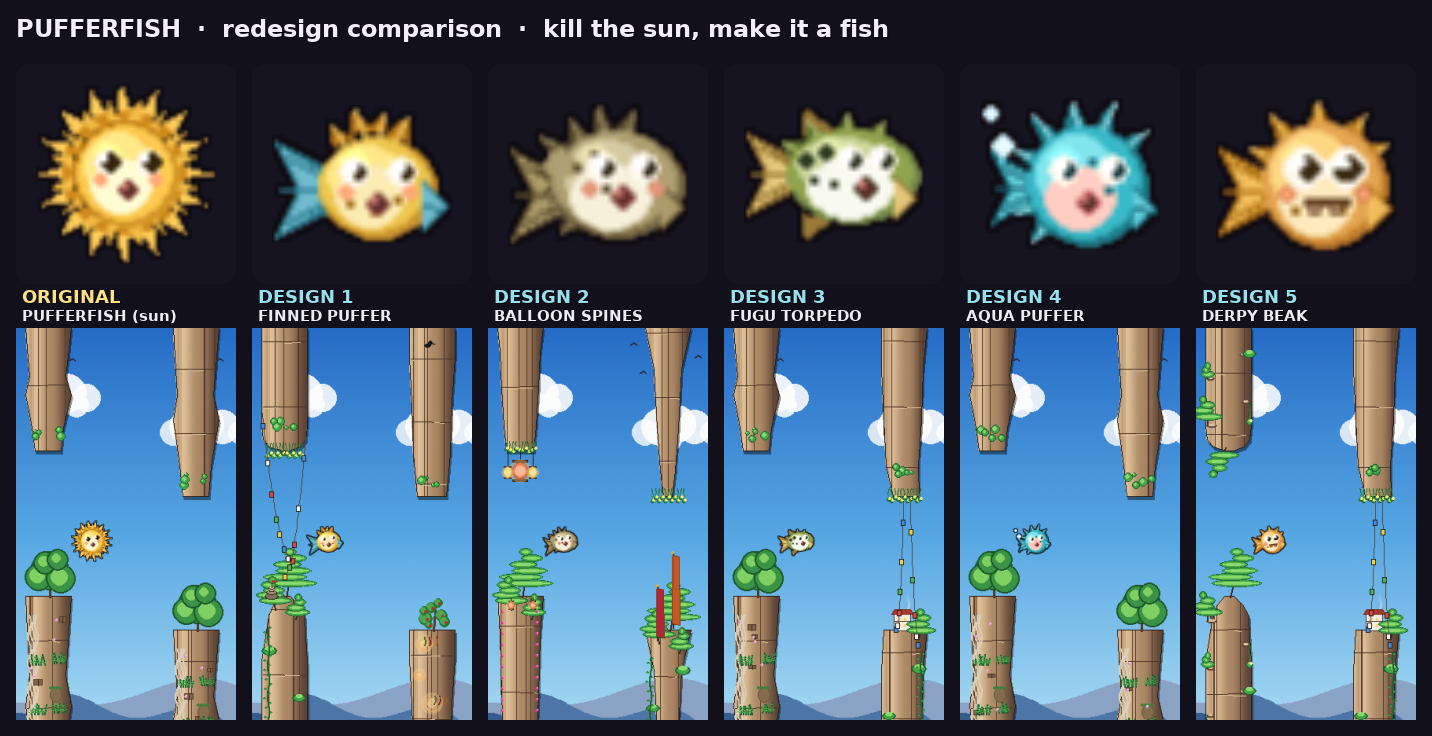
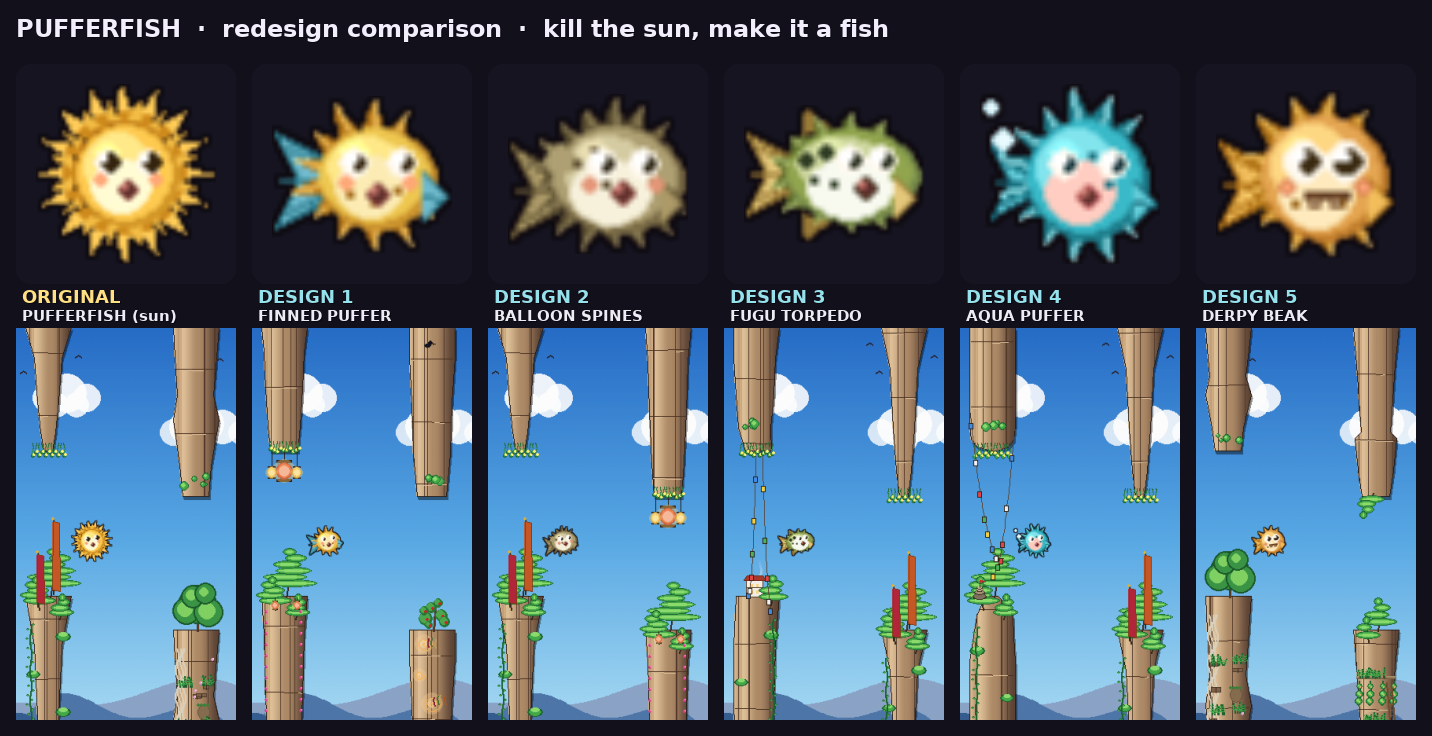
pufferfish R3: more spikes wrapping the body (face gap + tail keep it a fish)

diff --git a/tools/pufferfish_candidates/design_1.py b/tools/pufferfish_candidates/design_1.py
@@ -6,7 +6,8 @@ import pygame
 from game.parrot import _aaellipse
 from tools.pufferfish_candidates._shared import (
     _new, _make_prebuilt_skin, _inflate, _shade, _eye, _radial_body,
-    _tail_fin, _side_fin, _spots, _stub_spikes, _pouty_o, BCX, BCY,
+    _tail_fin, _side_fin, _spots, _stub_spikes, _spike_field, _pouty_o,
+    BCX, BCY,
 )
 
 CORE = (255, 226, 132)
@@ -21,9 +22,9 @@ FIN_L = (111, 183, 201)
 DARK  = (52, 36, 14)
 BLUSH = (255, 168, 120)
 
-# A SMALL cluster of blunt stubs on the upper-back shoulder only (not a crown
-# spanning the whole top) — uneven lengths so they read as bumps, not rays.
-_SPK = [(-2.2, 0.6), (-1.8, 1.0), (-1.45, 0.55), (-1.1, 0.85)]
+# Stubs wrapping most of the body (top + sides + lower-back) with a clear gap
+# over the front face — short + uneven so they read as bumpy puffer skin.
+_SPK = _spike_field(14, base=0.55, var=0.45, gap=(-0.7, 0.5), seed=1)
 
 
 def build_finned(wing_angle_deg):
@@ -39,9 +40,9 @@ def build_finned(wing_angle_deg):
     # must win the silhouette (drawn first so the body overlaps its root).
     _tail_fin(surf, cx - r + 2, cy + 1, 12, fin_d, fin_l)
 
-    # Small blunt stub bumps on the upper-back shoulder (anti-sun spike).
-    spk = 3 + int(inf * 2)
-    _stub_spikes(surf, cx, cy, r, r, spk, _shade(SPIKE_D, bf),
+    # Short blunt stubs wrapping the body (anti-sun: short + irregular + face gap).
+    spk = 5 + int(inf * 2)
+    _stub_spikes(surf, cx, cy, r, r - 2, spk, _shade(SPIKE_D, bf),
                  _shade(SPIKE_T, bf), _SPK)
 
     # Gold body as a gentle horizontal OVAL (rx>ry) — reads as an inflated fish

diff --git a/tools/pufferfish_candidates/_shared.py b/tools/pufferfish_candidates/_shared.py
@@ -117,6 +117,24 @@ def _spots(surf, cx, cy, rx, ry, col, seed_pts):
         pygame.draw.circle(surf, col, (cx + dx, cy + dy), rr)
 
 
+def _spike_field(n, *, base=0.7, var=0.5, gap=(-0.6, 0.6), seed=0):
+    """Generate `n` stub-spike placements wrapped around the body with a small
+    DETERMINISTIC length jitter (irregular bumpy skin, never even rays) and a
+    clear angular `gap` over the face/front so the studs never close into a full
+    radial halo. Angles in radians: 0 = front (+x), -pi/2 = top. Returns a list
+    of (angle, len_scale) for `_stub_spikes`. No RNG → the 4 cached frames are
+    stable. Pass gap=None to wrap the whole body."""
+    out = []
+    glo, ghi = gap if gap else (1.0, -1.0)
+    for i in range(n):
+        a = -math.pi + (2 * math.pi) * (i + 0.5) / n
+        if gap and glo <= a <= ghi:
+            continue
+        ls = base + var * (((i * 5 + seed * 3) % 7) / 6.0)
+        out.append((a, ls))
+    return out
+
+
 def _stub_spikes(surf, cx, cy, rx, ry, length, col_base, col_tip, placements):
     """Short, BLUNT cone spines at fixed (angle, scale) placements — scattered,
     not a clean radial fan. This is the anti-sun spike: stubby + staggered so it

diff --git a/tools/pufferfish_candidates/design_2.py b/tools/pufferfish_candidates/design_2.py
@@ -9,7 +9,8 @@ import pygame
 from game.parrot import _aaellipse
 from tools.pufferfish_candidates._shared import (
     _new, _make_prebuilt_skin, _inflate, _shade, _eye, _radial_body,
-    _tail_fin, _side_fin, _spots, _stub_spikes, _pouty_o, BCX, BCY,
+    _tail_fin, _side_fin, _spots, _stub_spikes, _spike_field, _pouty_o,
+    BCX, BCY,
 )
 
 # De-golded tan puffer skin so colour stops reading "sun".
@@ -25,10 +26,10 @@ FIN_L = (168, 150, 102)
 DARK  = (46, 38, 22)
 BLUSH = (228, 150, 120)
 
-# Studs on the TOP + BACK arc ONLY (belly & front-face kept bald) — an
-# asymmetric distribution can never read as a radial sun.
-_SPK = [(-2.95, 0.7), (-2.55, 1.0), (-2.15, 0.8), (-1.75, 1.0),
-        (-1.35, 0.85), (2.85, 0.75), (2.55, 0.9), (2.25, 0.7)]
+# The SPIKY puffer: studs wrap nearly the whole body (top + sides + belly +
+# back), with only the front face kept clear. Short + irregular + a dominant
+# tail keep it bumpy-blowfish, not a radial sun.
+_SPK = _spike_field(18, base=0.6, var=0.5, gap=(-0.7, 0.4), seed=2)
 
 
 def build_balloon(wing_angle_deg):

diff --git a/tools/pufferfish_candidates/design_4.py b/tools/pufferfish_candidates/design_4.py
@@ -6,7 +6,8 @@ import pygame
 from game.parrot import _aaellipse
 from tools.pufferfish_candidates._shared import (
     _new, _make_prebuilt_skin, _inflate, _flap, _shade, _eye, _radial_body,
-    _tail_fin, _side_fin, _spots, _stub_spikes, _pouty_o, BCX, BCY,
+    _tail_fin, _side_fin, _spots, _stub_spikes, _spike_field, _pouty_o,
+    BCX, BCY,
 )
 
 CORE = (127, 224, 232)          # light aqua core
@@ -21,10 +22,9 @@ FIN_L = (96, 200, 212)
 DARK  = (24, 54, 60)
 BUBBLE = (234, 251, 255)
 
-# Soft rounded short spines — upper body PLUS a couple lower on the back flank
-# so the bumps wrap the ball (the "spines all over a round body" puffer cue).
-_SPK = [(-2.7, 0.7), (-2.2, 0.9), (-1.7, 0.75), (-1.2, 0.95), (-0.7, 0.8),
-        (2.7, 0.6), (2.3, 0.7)]
+# Soft rounded short spines wrapping the whole ball (top + sides + belly + back),
+# face kept clear — the "spines all over a round body" puffer cue, in cute aqua.
+_SPK = _spike_field(15, base=0.6, var=0.45, gap=(-0.7, 0.5), seed=4)
 
 
 def build_aqua(wing_angle_deg):

diff --git a/tools/pufferfish_candidates/design_3.py b/tools/pufferfish_candidates/design_3.py
@@ -8,7 +8,8 @@ import pygame
 from game.parrot import _aaellipse
 from tools.pufferfish_candidates._shared import (
     _new, _make_prebuilt_skin, _inflate, _shade, _eye, _radial_body,
-    _tail_fin, _side_fin, _spots, _stub_spikes, _pouty_o, BCX, BCY,
+    _tail_fin, _side_fin, _spots, _stub_spikes, _spike_field, _pouty_o,
+    BCX, BCY,
 )
 
 CORE = (201, 210, 154)          # pale olive flank
@@ -22,8 +23,9 @@ FIN_D = (150, 120, 54)          # warm olive-tan fins
 FIN_L = (224, 196, 120)
 DARK  = (40, 46, 28)            # dark olive iris (still lets the white win)
 
-# Sparse, tiny spines on the upper back only.
-_SPK = [(-2.6, 0.5), (-2.1, 0.6), (-1.6, 0.55), (-1.1, 0.5)]
+# Fine prickles wrapping the back + flanks (fugu has small dense spines), face
+# kept clear. Kept SHORT so the realistic read stays calm, not a sunburst.
+_SPK = _spike_field(14, base=0.4, var=0.35, gap=(-0.8, 0.5), seed=3)
 
 
 def build_fugu(wing_angle_deg):

diff --git a/tools/pufferfish_candidates/design_5.py b/tools/pufferfish_candidates/design_5.py
@@ -7,7 +7,7 @@ import pygame
 from game.parrot import _aaellipse
 from tools.pufferfish_candidates._shared import (
     _new, _make_prebuilt_skin, _inflate, _flap, _shade, _eye, _radial_body,
-    _tail_fin, _side_fin, _spots, _stub_spikes, BCX, BCY,
+    _tail_fin, _side_fin, _spots, _stub_spikes, _spike_field, BCX, BCY,
 )
 
 CORE = (248, 210, 128)          # warm sandy-amber (de-sunned off pure gold)
@@ -23,7 +23,8 @@ DARK  = (58, 42, 18)
 TEETH = (255, 243, 214)
 BLUSH = (255, 168, 120)
 
-_SPK = [(-2.7, 0.6), (-2.2, 0.8), (-1.6, 0.65), (-1.0, 0.8), (-0.5, 0.6)]
+# Soft short spikes wrapping the body, face kept clear for the big beaky mug.
+_SPK = _spike_field(13, base=0.55, var=0.4, gap=(-0.8, 0.6), seed=5)
 
 
 def build_derpy(wing_angle_deg):
